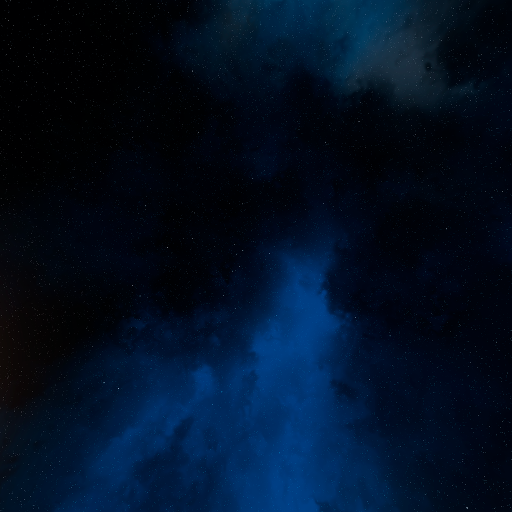
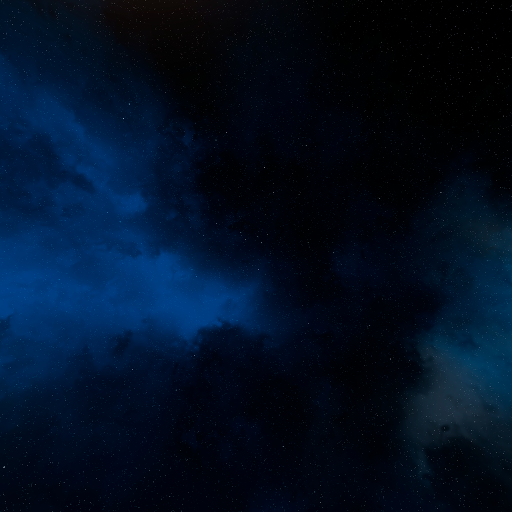
background

diff --git a/Scripts/GameScene.js b/Scripts/GameScene.js
@@ -1,23 +1,23 @@
 class GameScene
 {
-	
 	constructor()
 	{
 		this.gameObjects = [];
 		
 		this.scene = new THREE.Scene();
-		this.camera = new THREE.PerspectiveCamera(70, window.innerWidth / window.innerHeight, 0.01, 50);
+		this.camera = new THREE.PerspectiveCamera(75, window.innerWidth / window.innerHeight, 0.01, 100);
 		
 		
-		this.skyBox = TextureLoader.load([
-			'Assets2D/Background/sky_02.jpg',
-			'Assets2D/Background/sky_05.jpg',
-			'Assets2D/Background/sky_06.jpg',
-			'Assets2D/Background/sky_07.jpg',
-			'Assets2D/Background/sky_08.jpg',
-			'Assets2D/Background/sky_10.jpg',
+		this.skyBox = CubeTextureLoader.load([
+			'Assets2D/Background/sky_02.png',
+			'Assets2D/Background/sky_10.png', 
+			'Assets2D/Background/sky_06.png', 
+			'Assets2D/Background/sky_08.png',
+			'Assets2D/Background/sky_07.png', 
+			'Assets2D/Background/sky_05.png' 
 		  ]);		  
 		this.scene.background = this.skyBox;
+		
 	}
 	
 	Update()

diff --git a/Scripts/Polygonia.js b/Scripts/Polygonia.js
@@ -2,7 +2,7 @@ var WIDTH = window.innerWidth;
 var HEIGHT = window.innerHeight;
 
 var ObjectLoader =  new THREE.FBXLoader();
-var TextureLoader = new THREE.TextureLoader();
+var CubeTextureLoader = new THREE.CubeTextureLoader();
 
 function Destroy(scene,mesh)
 {
@@ -45,6 +45,8 @@ function Loop()
 	requestAnimationFrame(Loop, 1000 / 60);
 	this.controller.Update();	
 	this.gameScene.Update();
+	
+	this.gameScene.Draw(this.renderer);
 }
 
 requestAnimationFrame(Loop, 1000 / 60);
